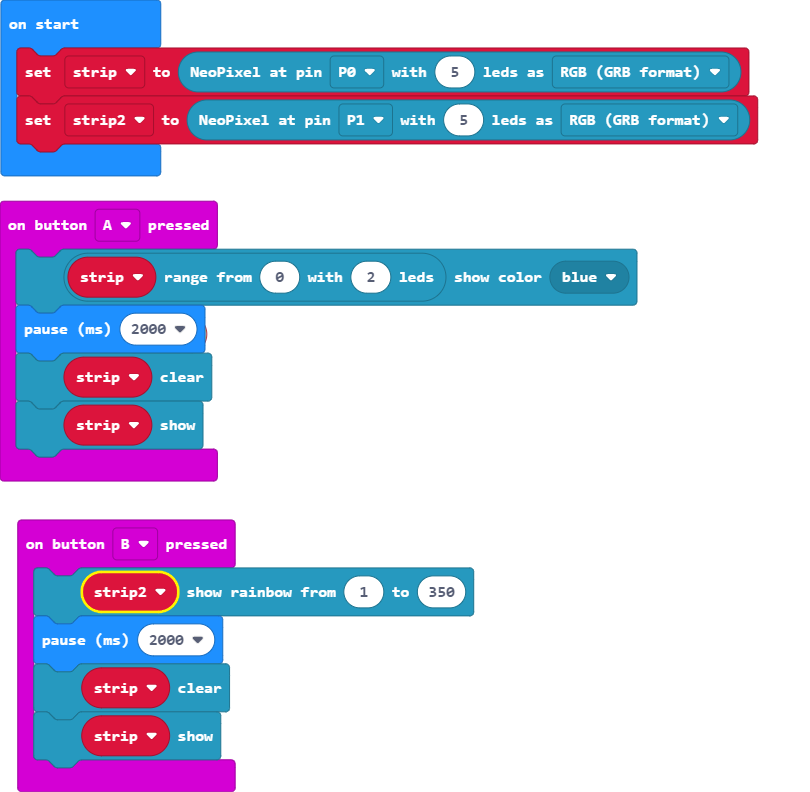
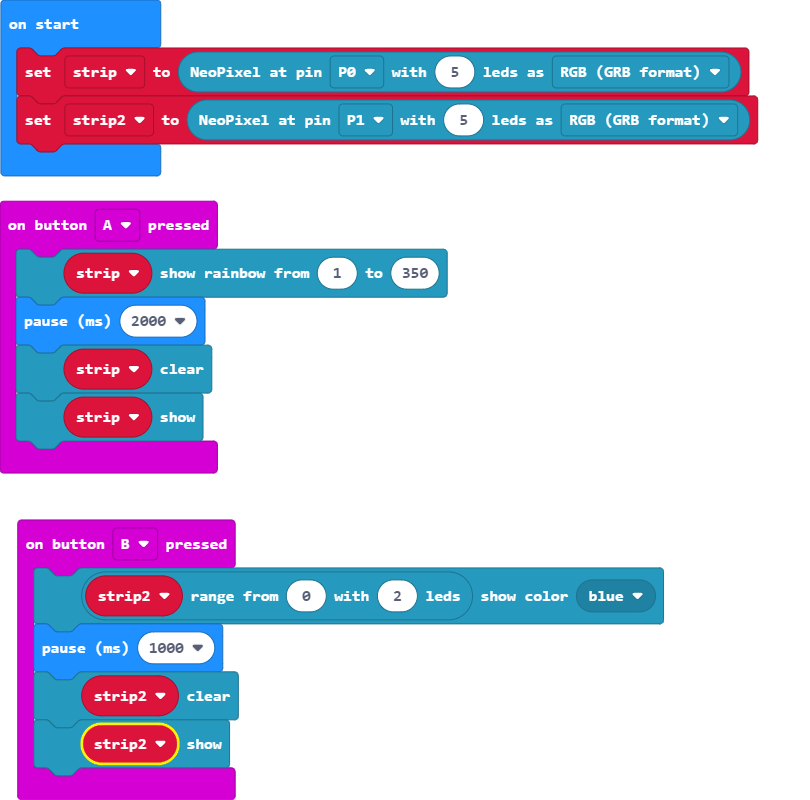
Update main.blocks, main.ts

diff --git a/main.ts b/main.ts
@@ -1,14 +1,14 @@
 input.onButtonPressed(Button.A, function () {
-    strip.range(0, 2).showColor(neopixel.colors(NeoPixelColors.Blue))
+    strip.showRainbow(1, 350)
     basic.pause(2000)
     strip.clear()
     strip.show()
 })
 input.onButtonPressed(Button.B, function () {
-    strip2.showRainbow(1, 350)
-    basic.pause(2000)
-    strip.clear()
-    strip.show()
+    strip2.range(0, 2).showColor(neopixel.colors(NeoPixelColors.Blue))
+    basic.pause(1000)
+    strip2.clear()
+    strip2.show()
 })
 let strip2: neopixel.Strip = null
 let strip: neopixel.Strip = null
